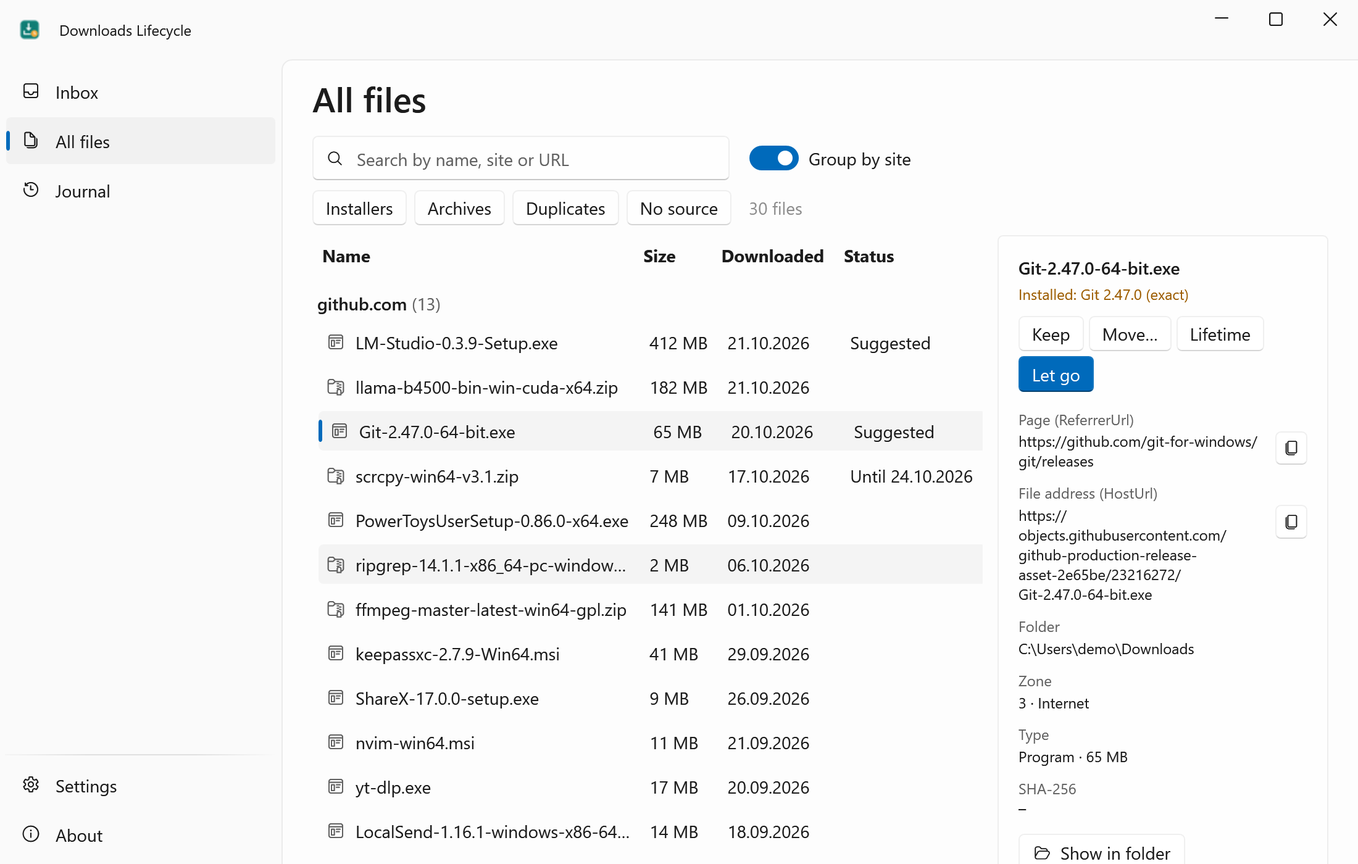
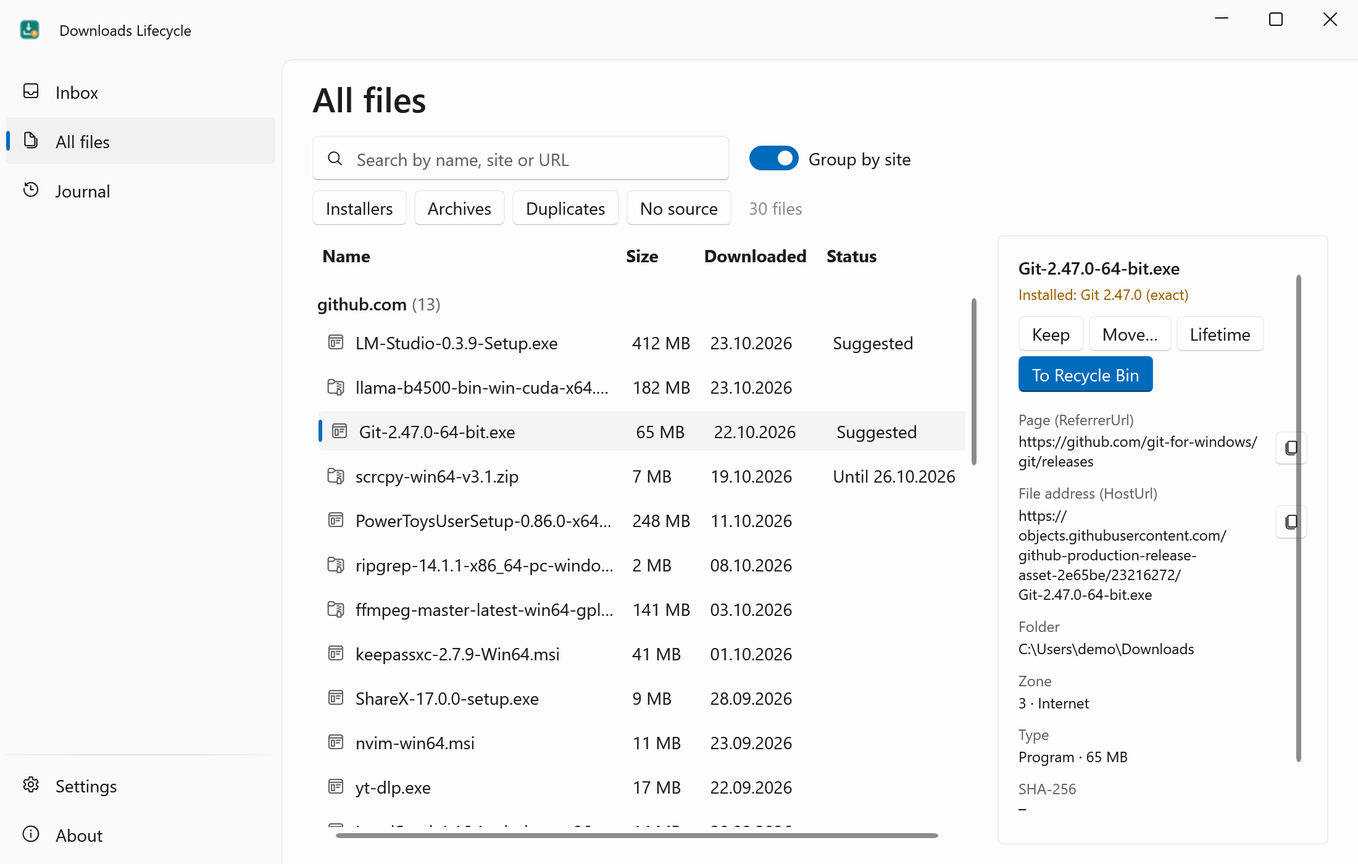
Owner's real run: journal rows settle, duplicates by size and contents, "To Recycle Bin"
- Journal: after Restore, Return, a restore by hand or an emptied Recycle Bin the row shows Returned / Deleted permanently instead of
  its buttons (Settle: later journal entries first, then one walk through the Bin). The per-row bin icon (it only opened the Bin) is gone.
- Recycle Bin dates from the Shell are UTC with Kind Unspecified: no more ToUniversalTime shift.
- Duplicates: Duplicates.SameContent (size + a SHA-256 of the file as it is now) in the auto-rule and its last check; the badge tooltip
  and the All files pane say "Same size and contents (SHA-256) as ...".
- "Let go" / "Отпустить" is now "To Recycle Bin" / "В Корзину" everywhere; README EN/RU, screenshots, GIFs, social preview.
- Tests: journal states, stale-hash duplicates, a live Recycle Bin round trip; tests no longer write the real log folder.

diff --git a/src/DownloadsLifecycle/Features/JournalPage.xaml b/src/DownloadsLifecycle/Features/JournalPage.xaml
@@ -30,34 +30,32 @@
         <DataGrid x:Name="Table" Grid.Row="1" AutoGenerateColumns="False" IsReadOnly="True" SelectionMode="Single" HeadersVisibility="Column"
                   GridLinesVisibility="None" CanUserResizeRows="False" CanUserAddRows="False">
             <DataGrid.Columns>
-                <DataGridTextColumn Header="{l:T Journal.Time}" Binding="{Binding Time}" Width="135" />
-                <DataGridTextColumn Header="{l:T Journal.Action}" Binding="{Binding Action}" Width="120" />
-                <DataGridTemplateColumn Header="{l:T Files.Name}" Width="*" MinWidth="180">
+                <DataGridTextColumn Header="{l:T Journal.Time}" Binding="{Binding Time}" Width="Auto" />
+                <DataGridTextColumn Header="{l:T Journal.Action}" Binding="{Binding Action}" Width="Auto" />
+                <DataGridTemplateColumn Header="{l:T Files.Name}" Width="*" MinWidth="140">
                     <DataGridTemplateColumn.CellTemplate>
                         <DataTemplate DataType="{x:Type f:JournalRow}">
                             <TextBlock Text="{Binding Name}" ToolTip="{Binding Where}" TextTrimming="CharacterEllipsis" VerticalAlignment="Center" />
                         </DataTemplate>
                     </DataGridTemplateColumn.CellTemplate>
                 </DataGridTemplateColumn>
-                <DataGridTemplateColumn Header="{l:T Journal.Reason}" Width="*" MinWidth="160">
+                <DataGridTemplateColumn Header="{l:T Journal.Reason}" Width="*" MinWidth="120">
                     <DataGridTemplateColumn.CellTemplate>
                         <DataTemplate DataType="{x:Type f:JournalRow}">
                             <TextBlock Text="{Binding Reason}" ToolTip="{Binding Reason}" TextTrimming="CharacterEllipsis" VerticalAlignment="Center" />
                         </DataTemplate>
                     </DataGridTemplateColumn.CellTemplate>
                 </DataGridTemplateColumn>
-                <DataGridTextColumn Header="{l:T Journal.By}" Binding="{Binding By}" Width="125" />
+                <DataGridTextColumn Header="{l:T Journal.By}" Binding="{Binding By}" Width="Auto" />
                 <DataGridTemplateColumn Width="Auto">
                     <DataGridTemplateColumn.CellTemplate>
                         <DataTemplate DataType="{x:Type f:JournalRow}">
                             <Grid>
+                                <ui:TextBlock Text="{Binding State}" Appearance="Secondary" VerticalAlignment="Center" Margin="0,0,8,0" />
                                 <ui:Button Content="{l:T Journal.Return}" Padding="8,2" Click="ReturnClick"
                                            Visibility="{Binding CanReturn, Converter={StaticResource Vis}}" />
-                                <StackPanel Orientation="Horizontal" Visibility="{Binding InBin, Converter={StaticResource Vis}}">
-                                    <ui:Button Content="{l:T Journal.Restore}" Padding="8,2" Margin="0,0,4,0" Click="RestoreClick" />
-                                    <ui:Button Icon="{ui:SymbolIcon Delete24}" Padding="6,3" Click="BinClick" ToolTip="{l:T Journal.ShowInBin}" AutomationProperties.Name="{l:T Journal.ShowInBin}"
-                                           />
-                                </StackPanel>
+                                <ui:Button Content="{l:T Journal.Restore}" Padding="8,2" Click="RestoreClick"
+                                           Visibility="{Binding InBin, Converter={StaticResource Vis}}" />
                             </Grid>
                         </DataTemplate>
                     </DataGridTemplateColumn.CellTemplate>

diff --git a/src/DownloadsLifecycle/Features/InboxPage.xaml b/src/DownloadsLifecycle/Features/InboxPage.xaml
@@ -25,7 +25,7 @@
                         <ui:TextBlock VerticalAlignment="Center" FontTypography="Caption" Appearance="Secondary" Margin="0,0,10,0">
                             <Run Text="{Binding SiteText, Mode=OneWay}" /><Run Text=" · " /><Run Text="{Binding SizeText, Mode=OneWay}" /><Run Text=" · " /><Run Text="{Binding AgeText, Mode=OneWay}" />
                         </ui:TextBlock>
-                        <Border x:Name="BadgeBox" HorizontalAlignment="Left" CornerRadius="4" Padding="6,1" ToolTip="{Binding Badge}"
+                        <Border x:Name="BadgeBox" HorizontalAlignment="Left" CornerRadius="4" Padding="6,1" ToolTip="{Binding BadgeTip}"
                                 Background="{DynamicResource SystemFillColorCautionBackgroundBrush}">
                             <ui:TextBlock Text="{Binding Badge}" FontTypography="Caption" TextTrimming="CharacterEllipsis"
                                           Foreground="{DynamicResource TextFillColorPrimaryBrush}" />

diff --git a/src/DownloadsLifecycle/Features/FilesPage.xaml b/src/DownloadsLifecycle/Features/FilesPage.xaml
@@ -85,7 +85,7 @@
                 <ScrollViewer VerticalScrollBarVisibility="Auto">
                     <StackPanel x:Name="Details">
                         <ui:TextBlock Text="{Binding Name}" FontTypography="BodyStrong" TextWrapping="Wrap" />
-                        <ui:TextBlock Text="{Binding Badge}" FontTypography="Caption" TextWrapping="Wrap" Margin="0,4,0,0"
+                        <ui:TextBlock Text="{Binding BadgeTip}" FontTypography="Caption" TextWrapping="Wrap" Margin="0,4,0,0"
                                       Foreground="{DynamicResource SystemFillColorCautionBrush}" />
                         <WrapPanel Margin="0,10,0,0">
                             <ui:Button Content="{l:T Inbox.Keep}" Click="KeepClick" Margin="0,0,4,4" Padding="10,4" />

diff --git a/src/DownloadsLifecycle/MainWindow.xaml b/src/DownloadsLifecycle/MainWindow.xaml
@@ -48,7 +48,7 @@
             </ui:NavigationView.FooterMenuItems>
         </ui:NavigationView>
 
-        <!-- "Let go": 8 s to undo, whatever page it came from -->
+        <!-- "To Recycle Bin": 8 s to undo, whatever page it came from -->
         <Border x:Name="UndoBar" Grid.Row="3" Margin="24,0,24,16" Padding="16,8" CornerRadius="6" Visibility="Collapsed"
                 Background="{DynamicResource SolidBackgroundFillColorTertiaryBrush}" BorderBrush="{DynamicResource CardStrokeColorDefaultBrush}" BorderThickness="1">
             <Grid>

diff --git a/src/DownloadsLifecycle/Features/SafeActions.cs b/src/DownloadsLifecycle/Features/SafeActions.cs
@@ -149,33 +149,51 @@ public static class RecycleBin
     public static bool Restore(string path, DateTime deletedUtc)
     {
         if (Args.Current.Demo) return true;
-        var dir = Path.GetDirectoryName(path)!.TrimEnd('\\');
-        var name = Path.GetFileName(path);
-        dynamic shell = Activator.CreateInstance(Type.GetTypeFromProgID("Shell.Application")!)!;
-        try
+        return Walk(items =>
         {
-            dynamic? best = null;
-            var gap = double.MaxValue;
-            foreach (dynamic item in shell.NameSpace(10).Items())
-            {
-                if (item.ExtendedProperty("System.Recycle.DeletedFrom") is not string from || !string.Equals(from.TrimEnd('\\'), dir, StringComparison.OrdinalIgnoreCase)) continue;
-                string shown = item.Name, stored = item.Path; // Name may lack the extension when Explorer hides them; the $R… path keeps it
-                if (!string.Equals(Path.GetExtension(stored), Path.GetExtension(name), StringComparison.OrdinalIgnoreCase)
-                    || !(string.Equals(shown, name, StringComparison.OrdinalIgnoreCase) || string.Equals(shown, Path.GetFileNameWithoutExtension(name), StringComparison.OrdinalIgnoreCase)))
-                    continue;
-                var when = item.ExtendedProperty("System.Recycle.DateDeleted") is DateTime d ? d.ToUniversalTime() : DateTime.MinValue;
-                if (Math.Abs((when - deletedUtc).TotalSeconds) is var g && g < gap) (best, gap) = (item, g);
-            }
+            var best = items.Where(i => string.Equals(i.Path, path, StringComparison.OrdinalIgnoreCase))
+                .OrderBy(i => Math.Abs((i.DeletedUtc - deletedUtc).TotalSeconds)).Select(i => i.Item).FirstOrDefault();
             if (best is null) return false;
             best.InvokeVerb("undelete");
             for (var n = 0; n < 30 && !Path.Exists(path); n++) Thread.Sleep(100); // the Shell may finish a moment later
             return Path.Exists(path);
+        });
+    }
+
+    /// <summary>Original path and deletion time of everything in the Recycle Bin (all drives); null when the Shell would not say.</summary>
+    public static List<(string Path, DateTime DeletedUtc)>? Contents() => Walk(items => items.Select(i => (i.Path, i.DeletedUtc)).ToList());
+
+    /// <summary>Is this recycle still in the Bin? Same original path, deleted within two minutes of the journal entry.</summary>
+    public static bool Holds(IEnumerable<(string Path, DateTime DeletedUtc)> bin, string path, DateTime deletedUtc) =>
+        bin.Any(b => string.Equals(b.Path, path, StringComparison.OrdinalIgnoreCase) && Math.Abs((b.DeletedUtc - deletedUtc).TotalMinutes) < 2);
+
+    static T? Walk<T>(Func<IEnumerable<(dynamic Item, string Path, DateTime DeletedUtc)>, T> use)
+    {
+        dynamic shell = Activator.CreateInstance(Type.GetTypeFromProgID("Shell.Application")!)!;
+        try
+        {
+            IEnumerable<(dynamic Item, string Path, DateTime DeletedUtc)> items = Items(shell.NameSpace(10).Items());
+            return use(items);
         }
         catch (Exception e) when (e is COMException or Microsoft.CSharp.RuntimeBinder.RuntimeBinderException or InvalidCastException)
         {
-            Log.Warn("restore failed: " + Fmt.Err(e));
-            return false;
+            Log.Warn("recycle bin: " + Fmt.Err(e));
+            return default;
         }
         finally { Marshal.FinalReleaseComObject(shell); }
+    }
+
+    static IEnumerable<(dynamic Item, string Path, DateTime DeletedUtc)> Items(dynamic items)
+    {
+        foreach (dynamic item in items)
+        {
+            if (item.ExtendedProperty("System.Recycle.DeletedFrom") is not string from) continue;
+            string shown = item.Name, ext = Path.GetExtension((string)item.Path); // Name lacks the extension when Explorer hides them; the $R… path keeps it
+            var name = string.Equals(Path.GetExtension(shown), ext, StringComparison.OrdinalIgnoreCase) ? shown : shown + ext;
+            // the Shell gives the FILETIME as is: UTC, but Kind Unspecified (ToUniversalTime would shift it by the time zone)
+            var when = item.ExtendedProperty("System.Recycle.DateDeleted") is DateTime d
+                ? d.Kind == DateTimeKind.Local ? d.ToUniversalTime() : DateTime.SpecifyKind(d, DateTimeKind.Utc) : DateTime.MinValue;
+            yield return (item, Path.Combine(from, name), when);
+        }
     }
 }

diff --git a/src/DownloadsLifecycle/Features/JournalPage.xaml.cs b/src/DownloadsLifecycle/Features/JournalPage.xaml.cs
@@ -5,9 +5,11 @@ using DownloadsLifecycle.Shell;
 
 namespace DownloadsLifecycle.Features;
 
-public sealed class JournalRow(JournalEntry e)
+public sealed class JournalRow(JournalEntry e, string? state = null)
 {
     public JournalEntry Entry { get; } = e;
+    /// <summary>"Returned" / "Deleted permanently" instead of the buttons once Return or Restore no longer applies (<see cref="Settle"/>).</summary>
+    public string? State { get; } = state is null ? null : Loc.T("Journal.State." + state);
     public string Time => Entry.T.ToLocalTime().ToString("g");
     public string Action => Loc.T("Op." + Entry.Op);
     public string Name => Path.GetFileName(Entry.Path);
@@ -15,10 +17,25 @@ public sealed class JournalRow(JournalEntry e)
     public string Reason => Fmt.Reason(Entry.Reason);
     public string By => Entry.By == "user" ? Loc.T("By.User") : string.Format(Loc.T("By.Rule"), Loc.T("Rule." + Entry.By.Split(':')[^1]));
     /// <summary>A move can go back while the file is still where it went (and it wasn't itself a return).</summary>
-    public bool CanReturn { get; } = e.Op == "move" && e.Reason != "return" && e.To is not null && (Args.Current.Demo || Path.Exists(e.To));
-    public bool InBin => Entry.Op == "recycle";
+    public bool CanReturn { get; } = state is null && e.Op == "move" && e.Reason != "return" && e.To is not null && (Args.Current.Demo || Path.Exists(e.To));
+    public bool InBin => Entry.Op == "recycle" && State is null;
 
-    public override string ToString() => $"{Action} {Name}";
+    public override string ToString() => State is null ? $"{Action} {Name}" : $"{Action} {Name}, {State}";
+
+    /// <summary>
+    /// Null while Return / Restore still applies. "back": returned or restored later (by the journal, or by hand from the Recycle Bin);
+    /// "gone": no longer in the Recycle Bin and not in its place, so deleted permanently. bin() is asked only when needed; null (Shell silent) claims nothing.
+    /// </summary>
+    public static string? Settle(JournalEntry e, IReadOnlyList<JournalEntry> journal, Func<List<(string Path, DateTime DeletedUtc)>?> bin, Func<string, bool> exists)
+    {
+        static bool Same(string a, string? b) => string.Equals(a, b, StringComparison.OrdinalIgnoreCase);
+        if (e.Op == "move" && e.Reason != "return")
+            return journal.Any(x => x.Op == "move" && x.Reason == "return" && x.T > e.T && Same(x.Path, e.To)) ? "back" : null;
+        if (e.Op != "recycle") return null;
+        if (journal.Any(x => x.Op == "restore" && x.T > e.T && Same(x.Path, e.Path))) return "back";
+        if (bin() is not { } b || RecycleBin.Holds(b, e.Path, e.T)) return null;
+        return exists(e.Path) ? "back" : "gone";
+    }
 }
 
 /// <summary>What happened, when, why and by whom (the user or a rule). Moves can be returned; recycled files are in the Recycle Bin.</summary>
@@ -35,7 +52,16 @@ public partial class JournalPage
 
     void Fill()
     {
-        var rows = Index.ReadJournal().Where(e => RulesOnly.IsChecked != true || e.By != "user").Select(e => new JournalRow(e)).ToList();
+        var journal = Index.ReadJournal();
+        List<(string, DateTime)>? bin = null;
+        var asked = false;
+        List<(string, DateTime)>? Bin()
+        {
+            if (!asked) (asked, bin) = (true, Args.Current.Demo ? null : RecycleBin.Contents()); // one walk through the Bin per fill
+            return bin;
+        }
+        var rows = journal.Where(e => RulesOnly.IsChecked != true || e.By != "user")
+            .Select(e => new JournalRow(e, JournalRow.Settle(e, journal, Bin, Path.Exists))).ToList();
         Table.ItemsSource = rows;
         EmptyText.Visibility = rows.Count == 0 ? Visibility.Visible : Visibility.Collapsed;
     }
@@ -52,7 +78,7 @@ public partial class JournalPage
         if (((FrameworkElement)sender).DataContext is JournalRow r) Actions.Return(r.Entry);
     }
 
-    /// <summary>v1.0 restores from the Recycle Bin itself; for now it opens it.</summary>
+    /// <summary>Opens the Recycle Bin.</summary>
     void BinClick(object sender, RoutedEventArgs e)
     {
         if (!Args.Current.Demo) Process.Start("explorer.exe", "shell:RecycleBinFolder");

diff --git a/tests/DownloadsLifecycle.Tests/SafetyTests.cs b/tests/DownloadsLifecycle.Tests/SafetyTests.cs
@@ -133,9 +133,9 @@ public class SafetyTests
     {
         var now = DateTime.UtcNow;
         var s = new Settings { AutoDuplicates = true };
-        Item D(string name, string? subject, double days = 2) => new()
+        Item D(string name, string? subject, double days = 2, long size = 100) => new()
         {
-            Key = name, Path = @"C:\Demo\Downloads\" + name, Size = 100, Sha256 = "h", CreatedUtc = now.AddDays(-days),
+            Key = name, Path = @"C:\Demo\Downloads\" + name, Size = size, Sha256 = "h", HashStamp = $"{size}:0", CreatedUtc = now.AddDays(-days),
             Suggestion = subject is null ? null : new("duplicate", "exact", subject),
         };
         var orig = D("a.pdf", null);
@@ -144,6 +144,37 @@ public class SafetyTests
         Assert.HasCount(0, Rules.AutoPlan([copy], now, now.AddHours(-1), false, s));                          // original gone: nothing
         Assert.HasCount(0, Rules.AutoPlan([orig, D("b.pdf", "a.pdf")], now, now.AddHours(-1), false, s));     // not a copy name: suggestion only
         Assert.HasCount(0, Rules.AutoPlan([orig, D("a (1).pdf", "a.pdf", days: 0.5)], now, now.AddHours(-1), false, s)); // younger than 24 h
+        // the name is never enough: the same size and a hash of the file as it is now
+        Assert.HasCount(0, Rules.AutoPlan([orig, D("a (1).pdf", "a.pdf", size: 101)], now, now.AddHours(-1), false, s));
+        Assert.HasCount(0, Rules.AutoPlan([orig with { MtimeUtc = now }, copy], now, now.AddHours(-1), false, s)); // original changed since hashing
+        Assert.HasCount(0, Rules.AutoPlan([orig, copy with { Sha256 = "other" }], now, now.AddHours(-1), false, s));
+    }
+
+    [TestMethod]
+    public void JournalRowsSettleAfterRestoreOrEmptiedBin()
+    {
+        var t = new DateTime(2026, 10, 20, 12, 0, 0, DateTimeKind.Utc);
+        const string p = @"C:\Demo\Downloads\dl-test-a.pdf";
+        var recycled = new JournalEntry(t, "recycle", p, 1, "", "user");
+        var asked = 0;
+        List<(string Path, DateTime DeletedUtc)>? Bin(params (string, DateTime)[] items) { asked++; return [.. items]; }
+        bool Exists(string _) => false;
+
+        Assert.IsNull(JournalRow.Settle(recycled, [recycled], () => Bin((p, t.AddSeconds(3))), Exists));          // still in the Bin: buttons
+        Assert.AreEqual("gone", JournalRow.Settle(recycled, [recycled], () => Bin(), Exists));                     // emptied: deleted permanently
+        Assert.AreEqual("gone", JournalRow.Settle(recycled, [recycled], () => Bin((p, t.AddHours(1))), Exists));   // a later recycle of the same name
+        Assert.AreEqual("back", JournalRow.Settle(recycled, [recycled], () => Bin(), _ => true));                  // restored by hand
+        Assert.IsNull(JournalRow.Settle(recycled, [recycled], () => null, Exists));                                // the Shell said nothing: claim nothing
+        asked = 0;
+        var restored = new JournalEntry(t.AddMinutes(5), "restore", p, 1, "", "user");
+        Assert.AreEqual("back", JournalRow.Settle(recycled, [restored, recycled], () => Bin(), Exists));
+        Assert.AreEqual(0, asked); // the journal answered, the Bin was not walked
+
+        var moved = new JournalEntry(t, "move", p, 1, "", "user", @"D:\x\dl-test-a.pdf");
+        Assert.IsNull(JournalRow.Settle(moved, [moved], () => Bin(), Exists));
+        var back = new JournalEntry(t.AddMinutes(1), "move", @"D:\x\dl-test-a.pdf", 1, "return", "user", p);
+        Assert.AreEqual("back", JournalRow.Settle(moved, [back, moved], () => Bin(), Exists));
+        Assert.IsNull(JournalRow.Settle(back, [back, moved], () => Bin(), Exists));
     }
 
     [TestMethod]

diff --git a/src/DownloadsLifecycle/Features/Actions.cs b/src/DownloadsLifecycle/Features/Actions.cs
@@ -7,13 +7,13 @@ using DownloadsLifecycle.Shell;
 namespace DownloadsLifecycle.Features;
 
 /// <summary>
-/// Let go / move / return, on the UI thread (Shell operations need STA and an owner window). Every action re-checks the file first
-/// (<see cref="SafetyGate"/>) and goes into journal.jsonl. "Let go" waits 8 s for Undo; on exit unconfirmed ones are dropped, the file stays.
+/// Recycle / move / return, on the UI thread (Shell operations need STA and an owner window). Every action re-checks the file first
+/// (<see cref="SafetyGate"/>) and goes into journal.jsonl. "To Recycle Bin" waits 8 s for Undo; on exit unconfirmed ones are dropped, the file stays.
 /// </summary>
 public static class Actions
 {
-    static readonly Dictionary<string, Item> Pending = [];   // let go, still undoable
-    static readonly Dictionary<string, Item> Waiting = [];   // let go, but in use: retried every 30 s for an hour
+    static readonly Dictionary<string, Item> Pending = [];   // sent to the Bin, still undoable
+    static readonly Dictionary<string, Item> Waiting = [];   // sent to the Bin, but in use: retried every 30 s for an hour
     static readonly DispatcherTimer Retry = new() { Interval = TimeSpan.FromSeconds(30) };
     static DispatcherTimer? undo;
     static DateTime waitingSince;
@@ -32,7 +32,7 @@ public static class Actions
     static nint Owner => Application.Current?.MainWindow is { } w ? new WindowInteropHelper(w).Handle : 0;
     static Settings S => Settings.Current;
 
-    /// <summary>"Let go": into the Recycle Bin after the undo window. A new batch commits the previous one first.</summary>
+    /// <summary>"To Recycle Bin": into the Recycle Bin after the undo window. A new batch commits the previous one first.</summary>
     public static void Release(IEnumerable<Item> items)
     {
         Commit();
@@ -106,7 +106,7 @@ public static class Actions
         IReadOnlyList<UninstallEntry>? installed = null;
         foreach (var (i, rule) in plan)
         {
-            if (rule == "rule:duplicate" && !Engine.Current.Items.Any(k => k.Key != i.Key && k.Name == i.Suggestion?.Subject && k.Sha256 == i.Sha256 && File.Exists(k.Path)))
+            if (rule == "rule:duplicate" && !Engine.Current.Items.Any(k => k.Key != i.Key && k.Name == i.Suggestion?.Subject && Duplicates.SameContent(k, i) && File.Exists(k.Path)))
                 continue; // the copy that stays must still be there
             // exact-match rules (v1.0) look again right before: still installed by ProductCode, still extracted to the last file
             if (rule == "rule:installer" && Installers.Check(i, installed ??= UninstallEntries.List()) is not { Confidence: "exact", Why: "msi" }) continue;
@@ -203,7 +203,7 @@ public static class Actions
         Engine.MarkRuled(i.Key);
     }
 
-    /// <summary>v1.0 journal "Restore": a file let go goes back from the Recycle Bin to where it was.</summary>
+    /// <summary>v1.0 journal "Restore": a recycled file goes back from the Recycle Bin to where it was.</summary>
     public static void Restore(JournalEntry e)
     {
         if (Path.Exists(e.Path)) { Notice?.Invoke(Loc.T("Journal.RestoreTaken")); return; }

diff --git a/src/DownloadsLifecycle/Features/Rules.cs b/src/DownloadsLifecycle/Features/Rules.cs
@@ -112,7 +112,7 @@ namespace DownloadsLifecycle.Features
             if (s.AutoDuplicates)
                 foreach (var i in items.Where(i => !i.Kept && i.Suggestion?.Type == "duplicate" && Small(i) && nowUtc - i.CreatedUtc >= TimeSpan.FromHours(s.GraceHours)))
                     if (CopySuffix.Original(i.Name) is { } orig && string.Equals(orig, i.Suggestion!.Subject, StringComparison.OrdinalIgnoreCase)
-                        && items.Any(k => k.Key != i.Key && k.Name == i.Suggestion.Subject && k.Sha256 == i.Sha256 && k.Sha256 is not null)
+                        && items.Any(k => k.Key != i.Key && k.Name == i.Suggestion.Subject && Duplicates.SameContent(k, i))
                         && plan.All(p => p.Item1.Key != i.Key))
                         plan.Add((i, "rule:duplicate"));
             bool Settled(Item i) => i.Suggestion?.FoundUtc is { } f && nowUtc - f >= TimeSpan.FromDays(s.ExactDays) && Small(i) && !i.Kept
@@ -124,7 +124,7 @@ namespace DownloadsLifecycle.Features
             return plan;
         }
 
-        /// <summary>v1.0 inbox line: files let go into the Recycle Bin this calendar month (local time), by you or a rule, minus the restored ones.</summary>
+        /// <summary>v1.0 inbox line: files moved to the Recycle Bin this calendar month (local time), by you or a rule, minus the restored ones.</summary>
         public static (int Count, long Bytes) FreedThisMonth(IEnumerable<JournalEntry> journal, DateTime nowLocal)
         {
             var month = journal.Where(e => e.T.ToLocalTime() is var t && t.Year == nowLocal.Year && t.Month == nowLocal.Month).ToList();

diff --git a/tests/DownloadsLifecycle.Tests/V1Tests.cs b/tests/DownloadsLifecycle.Tests/V1Tests.cs
@@ -91,6 +91,29 @@ public class V1Tests
     }
 
     [TestMethod]
+    public void RecycleBinSeesAndRestoresOurFile()
+    {
+        // The real Recycle Bin, our own temp file only; it comes back out, so the Bin stays as it was
+        var dir = Directory.CreateTempSubdirectory("dl-test-").FullName;
+        var p = Path.Combine(dir, "dl-test-bin.txt");
+        File.WriteAllText(p, "x");
+        var t = DateTime.UtcNow;
+        Assert.IsTrue(Recycler.Recycle(p, 0));
+        try
+        {
+            var bin = RecycleBin.Contents();
+            Assert.IsNotNull(bin);
+            Assert.IsTrue(RecycleBin.Holds(bin, p, t)); // the Shell's deletion time is UTC: within two minutes, not a time zone off
+            Assert.IsFalse(RecycleBin.Holds(bin, p, t.AddHours(-1)));
+        }
+        finally
+        {
+            Assert.IsTrue(RecycleBin.Restore(p, t));
+            Directory.Delete(dir, recursive: true);
+        }
+    }
+
+    [TestMethod]
     public void FreedThisMonthCountsRecycledMinusRestored()
     {
         var now = new DateTime(2026, 10, 21, 12, 0, 0, DateTimeKind.Local);

diff --git a/src/DownloadsLifecycle/Demo/DemoData.cs b/src/DownloadsLifecycle/Demo/DemoData.cs
@@ -91,6 +91,7 @@ public static class DemoData
         [
             new(now.AddHours(-3), "move", Dir + "lecture-07.mp4", 734 * MB, "", "user", @"D:\Video\Courses\lecture-07.mp4"),
             new(now.AddHours(-5), "recycle", Dir + "report-final (1).pdf", 2 * MB, "duplicate|report-final.pdf", "rule:duplicate"),
+            new(now.AddHours(-25), "restore", Dir + "OBS-Studio-30.2.3-Windows-Installer.exe", 140 * MB, "", "user"),
             new(now.AddHours(-26), "recycle", Dir + "OBS-Studio-30.2.3-Windows-Installer.exe", 140 * MB, "installer|OBS Studio 30.2.3", "user"),
             new(now.AddHours(-27), "recycle", Dir + "wallpapers.zip", 56 * MB, "expired", "rule:expired"),
             new(now.AddHours(-28), "ttl", Dir + "scrcpy-win64-v3.1.zip", 7 * MB, "7d", "user"),

diff --git a/src/DownloadsLifecycle/Features/Detectors.cs b/src/DownloadsLifecycle/Features/Detectors.cs
@@ -35,6 +35,10 @@ public static class Duplicates
         ?? same.Where(i => CopySuffix.Original(i.Name) is null).MinBy(i => i.CreatedUtc)
         ?? same.MinBy(i => i.CreatedUtc)!;
 
+    /// <summary>The same size and SHA-256, both hashes taken from the files as they are now. Names never decide.</summary>
+    public static bool SameContent(Item a, Item b) =>
+        a.Size == b.Size && a.Sha256 is not null && a.Sha256 == b.Sha256 && a.HashStamp == a.Stamp && b.HashStamp == b.Stamp;
+
     /// <summary>Files with a size twin, hashed (cached by size+mtime). Returns key → suggestion for every non-keeper.</summary>
     public static Dictionary<string, Suggestion> Find(Index index, CancellationToken stop)
     {
